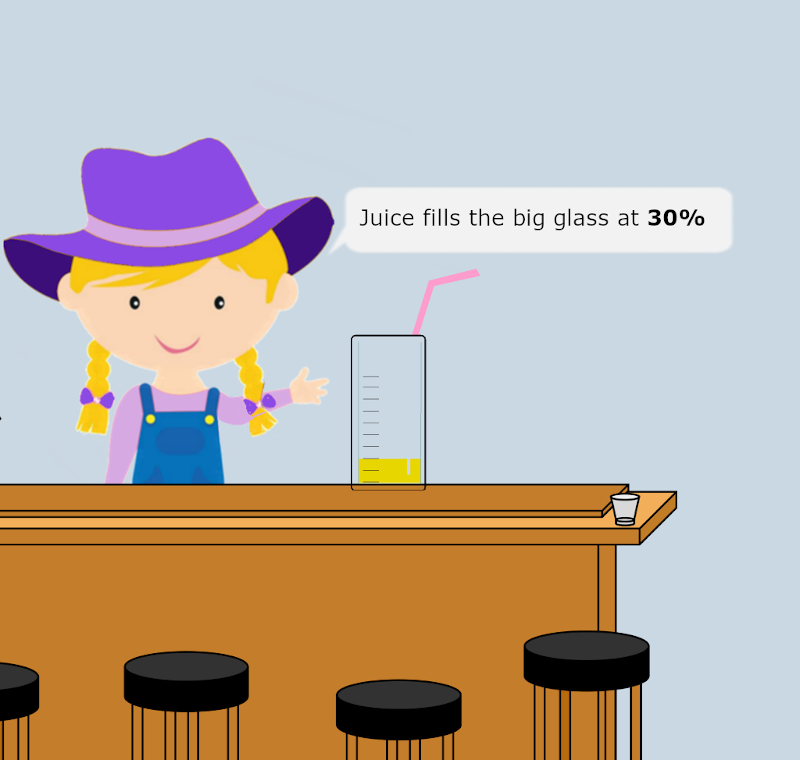
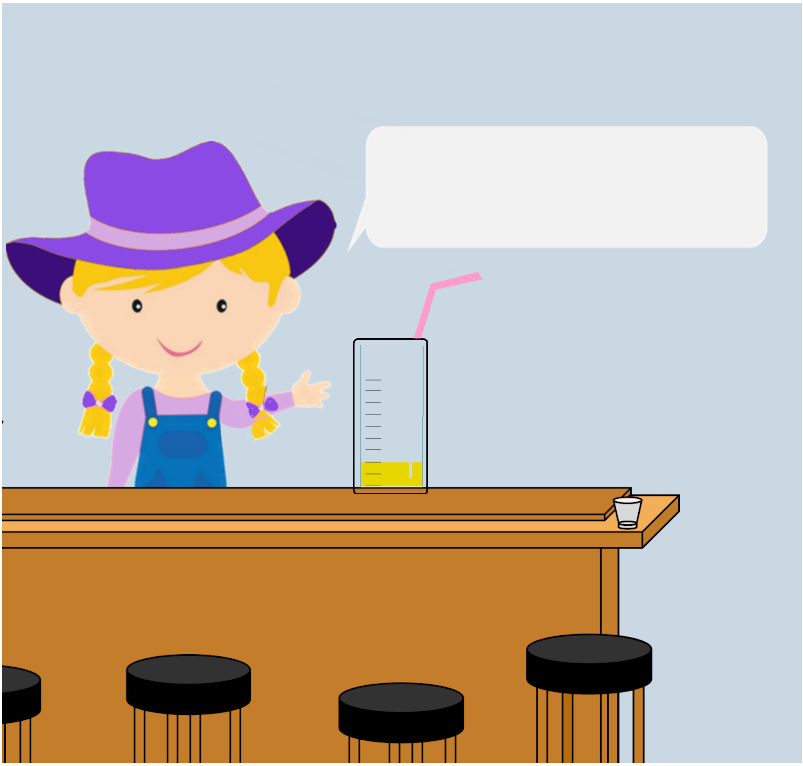
new juice

diff --git a/src/juice.js b/src/juice.js
@@ -5,10 +5,196 @@ import Image from 'react-image-resizer';
 
 class Juice extends React.Component{
 
+  disp_text(){
+
+    if (this.props.hor === 1){
+
+      switch(this.props.mean_score){
+
+          case 1: return (
+          <div className="juice_text">
+            <p>
+              Juice from the apples YOU picked <br />
+              filled: <big> <b> 10% </b> </big> of the small glass
+            </p>
+          </div>)
+
+          case 2: return (
+          <div className="juice_text">
+            <p>
+              Juice from the apples YOU picked <br />
+              filled: <big> <b> 20% </b> </big> of the small glass
+            </p>
+          </div>)
+
+          case 3: return (
+          <div className="juice_text">
+            <p>
+              Juice from the apples YOU picked <br />
+              filled: <big> <b> 30% </b> </big> of the small glass
+            </p>
+          </div>)
+
+          case 4: return (
+          <div className="juice_text">
+            <p>
+              Juice from the apples YOU picked <br />
+              filled: <big> <b> 40% </b> </big> of the small glass
+            </p>
+          </div>)
+
+          case 5: return (
+          <div className="juice_text">
+            <p>
+              Juice from the apples YOU picked <br />
+              filled: <big> <b> 50% </b> </big> of the small glass
+            </p>
+          </div>)
+
+          case 6: return (
+          <div className="juice_text">
+            <p>
+              Juice from the apples YOU picked <br />
+              filled: <big> <b> 60% </b> </big> of the small glass
+            </p>
+          </div>)
+
+          case 7: return (
+          <div className="juice_text">
+            <p>
+              Juice from the apples YOU picked <br />
+              filled: <big> <b> 70% </b> </big> of the small glass
+            </p>
+          </div>)
+
+          case 8: return (
+          <div className="juice_text">
+            <p>
+              Juice from the apples YOU picked <br />
+              filled: <big> <b> 80% </b> </big> of the small glass
+            </p>
+          </div>)
+
+          case 9: return (
+          <div className="juice_text">
+            <p>
+              Juice from the apples YOU picked <br />
+              filled: <big> <b> 90% </b> </big> of the small glass
+            </p>
+          </div>)
+
+          case 10: return (
+          <div className="juice_text">
+            <p>
+              Juice from the apples YOU picked <br />
+              filled: <big> <b> 100% </b> </big> of the small glass
+            </p>
+          </div>)
+      }
+    }
+
+    else if (this.props.hor === 6){
+
+      switch(this.props.mean_score){
+
+          case 1: return (
+          <div className="juice_text">
+            <p>
+              Juice from the apples YOU picked <br />
+              filled: <big> <b> 10% </b> </big> of the large glass
+            </p>
+          </div>)
+
+          case 2: return (
+          <div className="juice_text">
+            <p>
+              Juice from the apples YOU picked <br />
+              filled: <big> <b> 20% </b> </big> of the large glass
+            </p>
+          </div>)
+
+          case 3: return (
+          <div className="juice_text">
+            <p>
+              Juice from the apples YOU picked <br />
+              filled: <big> <b> 30% </b> </big> of the large glass
+            </p>
+          </div>)
+
+          case 4: return (
+          <div className="juice_text">
+            <p>
+              Juice from the apples YOU picked <br />
+              filled: <big> <b> 40% </b> </big> of the large glass
+            </p>
+          </div>)
+
+          case 5: return (
+          <div className="juice_text">
+            <p>
+              Juice from the apples YOU picked <br />
+              filled: <big> <b> 50% </b> </big> of the large glass
+            </p>
+          </div>)
+
+          case 6: return (
+          <div className="juice_text">
+            <p>
+              Juice from the apples YOU picked <br />
+              filled: <big> <b> 60% </b> </big> of the large glass
+            </p>
+          </div>)
+
+          case 7: return (
+          <div className="juice_text">
+            <p>
+              Juice from the apples YOU picked <br />
+              filled: <big> <b> 70% </b> </big> of the large glass
+            </p>
+          </div>)
+
+          case 8: return (
+          <div className="juice_text">
+            <p>
+              Juice from the apples YOU picked <br />
+              filled: <big> <b> 80% </b> </big> of the large glass
+            </p>
+          </div>)
+
+          case 9: return (
+          <div className="juice_text">
+            <p>
+              Juice from the apples YOU picked <br />
+              filled: <big> <b> 90% </b> </big> of the large glass
+            </p>
+          </div>)
+
+          case 10: return (
+          <div className="juice_text">
+            <p>
+              Juice from the apples YOU picked <br />
+              filled: <big> <b> 100% </b> </big> of the large glass
+            </p>
+          </div>)
+      }
+    }
+
+
+
+
+  }
+
   render(){
+
+    console.log("mean_score", this.props.mean_score)
+
     return (
         <div className="juice_im">
+
           <Image src={this.props.image_juice} height={800}/>
+
+          {this.disp_text()}
+
         </div>
     );
   }

diff --git a/src/intro.js b/src/intro.js
@@ -62,8 +62,8 @@ class Consent extends Component {
       image_bg_7:["http://www.brainexplorer.net/MF/images_set7/sun_1.png", "http://www.brainexplorer.net/MF/images_set7/sun_2.png", "http://www.brainexplorer.net/MF/images_set7/sun_3.png", "http://www.brainexplorer.net/MF/images_set7/sun_4.png", "http://www.brainexplorer.net/MF/images_set7/sun_5.png", "http://www.brainexplorer.net/MF/images_set7/sun_6.png", "http://www.brainexplorer.net/MF/images_set7/sun_7.png"],
       image_bg_8:["http://www.brainexplorer.net/MF/images_set8/sun_1.png", "http://www.brainexplorer.net/MF/images_set8/sun_2.png", "http://www.brainexplorer.net/MF/images_set8/sun_3.png", "http://www.brainexplorer.net/MF/images_set8/sun_4.png", "http://www.brainexplorer.net/MF/images_set8/sun_5.png", "http://www.brainexplorer.net/MF/images_set8/sun_6.png", "http://www.brainexplorer.net/MF/images_set8/sun_7.png"],
 
-      juice_small_bg:["http://www.brainexplorer.net/MF/juice_small/juice1.png", "http://www.brainexplorer.net/MF/juice_small/juice2.png", "http://www.brainexplorer.net/MF/juice_small/juice3.png", "http://www.brainexplorer.net/MF/juice_small/juice4.png", "http://www.brainexplorer.net/MF/juice_small/juice5.png", "http://www.brainexplorer.net/MF/juice_small/juice6.png", "http://www.brainexplorer.net/MF/juice_small/juice7.png", "http://www.brainexplorer.net/MF/juice_small/juice8.png", "http://www.brainexplorer.net/MF/juice_small/juice9.png", "http://www.brainexplorer.net/MF/juice_small/juice10.png"],
-      juice_big_bg:["http://www.brainexplorer.net/MF/juice_big/juice1.png", "http://www.brainexplorer.net/MF/juice_big/juice2.png", "http://www.brainexplorer.net/MF/juice_big/juice3.png", "http://www.brainexplorer.net/MF/juice_big/juice4.png", "http://www.brainexplorer.net/MF/juice_big/juice5.png", "http://www.brainexplorer.net/MF/juice_big/juice6.png", "http://www.brainexplorer.net/MF/juice_big/juice7.png", "http://www.brainexplorer.net/MF/juice_big/juice8.png", "http://www.brainexplorer.net/MF/juice_big/juice9.png", "http://www.brainexplorer.net/MF/juice_big/juice10.png"],
+      juice_small_bg:["./images/juice_small/juice1.png", "./images/juice_small/juice2.png", "./images/juice_small/juice3.png", "./images/juice_small/juice4.png", "./images/juice_small/juice5.png", "./images/juice_small/juice6.png", "./images/juice_small/juice7.png", "./images/juice_small/juice8.png", "./images/juice_small/juice9.png", "./images/juice_small/juice10.png"],
+      juice_big_bg:["./images/juice_big/juice1.png", "./images/juice_big/juice2.png", "./images/juice_big/juice3.png", "./images/juice_big/juice4.png", "./images/juice_big/juice5.png", "./images/juice_big/juice6.png", "./images/juice_big/juice7.png", "./images/juice_big/juice8.png", "./images/juice_big/juice9.png", "./images/juice_big/juice10.png"],
 
       block_start_bg:["http://www.brainexplorer.net/MF/block_images/startblock_1.jpg", "http://www.brainexplorer.net/MF/block_images/startblock_2.jpg", "http://www.brainexplorer.net/MF/block_images/startblock_3.jpg", "http://www.brainexplorer.net/MF/block_images/startblock_4.jpg"],
       block_finish_bg:["http://www.brainexplorer.net/MF/block_images/finishblock_4.jpg"],
@@ -76,7 +76,6 @@ class Consent extends Component {
       apple_col6:["http://www.brainexplorer.net/MF/images_set6/apple_1.png","http://www.brainexplorer.net/MF/images_set6/apple_2.png","http://www.brainexplorer.net/MF/images_set6/apple_3.png"],
       apple_col7:["http://www.brainexplorer.net/MF/images_set7/apple_1.png","http://www.brainexplorer.net/MF/images_set7/apple_2.png","http://www.brainexplorer.net/MF/images_set7/apple_3.png"],
       apple_col8:["http://www.brainexplorer.net/MF/images_set8/apple_1.png","http://www.brainexplorer.net/MF/images_set8/apple_2.png","http://www.brainexplorer.net/MF/images_set8/apple_3.png"],
-
 
     };
 

diff --git a/src/task.js b/src/task.js
@@ -28,7 +28,7 @@ class Task extends React.Component{
       num_training:10, // should be 10
       loading: 1,
       slide: 1,
-      transition: 0, // starts at 0
+      transition: 6, // starts at 0
       mounted: 0,
       fetched: 0,
       percentage_to_pass_questions: 1, // percentage to pass the training and questions
@@ -113,9 +113,9 @@ class Task extends React.Component{
                     <div className="IntroConsentText">
                       <p><span className="bold">STUDY PART 1/2</span></p>
                         Thank you for joining our study. <br/>
-                        In the 1st part you will play a computer game and in the 2nd part you will
-                        be asked a few questions about yourself.<br/>
-                        If you are ready, press the button to be redirected to the game.
+                        In the 1st part of the study you will play a computer game. <br/>
+                        In the 2nd part you will be asked a few questions about yourself.<br/>
+                        Press the button when you are ready.
                       <br/><br/>
                       <div className="container">
                           <div className="center">

diff --git a/src/style/intro.css b/src/style/intro.css
@@ -5,14 +5,14 @@
 .IntroConsentText{
   font: "Century Gothic", Futura, sans-serif;
   font-size  : 16;
-  margin-top : 2vh;
-  margin-left: 2vh;
+  margin-top : 4vh;
+  text-align: left;
 }
 
 .bold { font-weight: bold; }
 
 .place-middle{
-  max-width: 1000px;
+  max-width: 850px;
   margin-left: auto;
   margin-right: auto;
 }

diff --git a/src/style/juice.css b/src/style/juice.css
@@ -3,3 +3,19 @@
   margin-top: 0px;
   margin-left: 0px;
 }
+
+.juice_text{
+  position:relative;
+  top: -650px;
+  left: 400px;
+  margin-right: -100px;
+  font-size: 24px;
+  font-family: Arial;
+}
+
+.amount{
+  position:relative;
+  top: -40px;
+  left: 65px;
+  font-size: 24px;
+}

diff --git a/src/game.js b/src/game.js
@@ -301,7 +301,7 @@ class Game extends React.Component{
 
     return (
       <div className="place-middle">
-        <Juice image_juice={image_juice}/>
+        <Juice image_juice={image_juice} mean_score={shift_mean_score} hor={hor}/>
       </div>
     );
 

diff --git a/src/config.js b/src/config.js
@@ -1,2 +1,2 @@
-export const API_URL= 'https://mfwebappapi.osc-fr1.scalingo.io'
-//export const API_URL='http://localhost:5000'
+//export const API_URL= 'https://mfwebappapi.osc-fr1.scalingo.io'
+export const API_URL='http://localhost:5000'

diff --git a/src/end.js b/src/end.js
@@ -3,6 +3,7 @@ import { Component } from 'react';
 class End extends Component {
 
   render() {
+    // https://app.prolific.co/submissions/complete?cc=6668AF37
     return null;
   }
 
